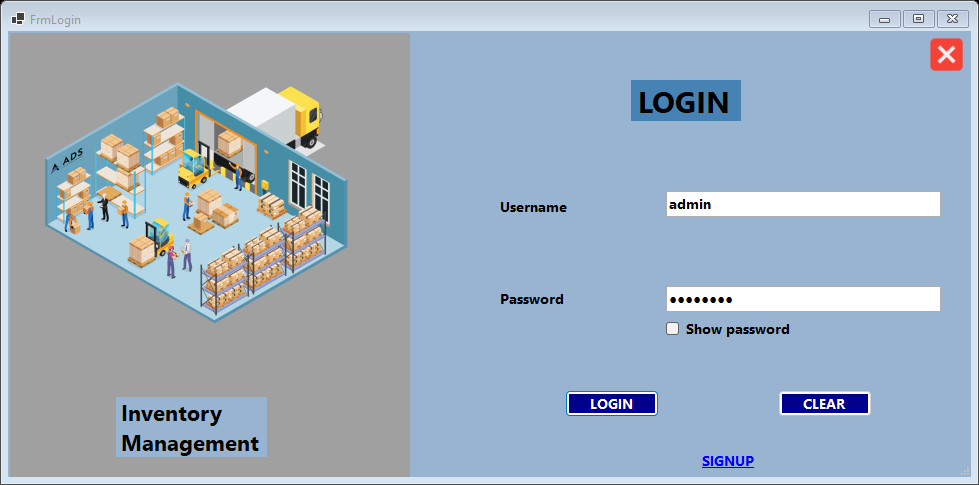
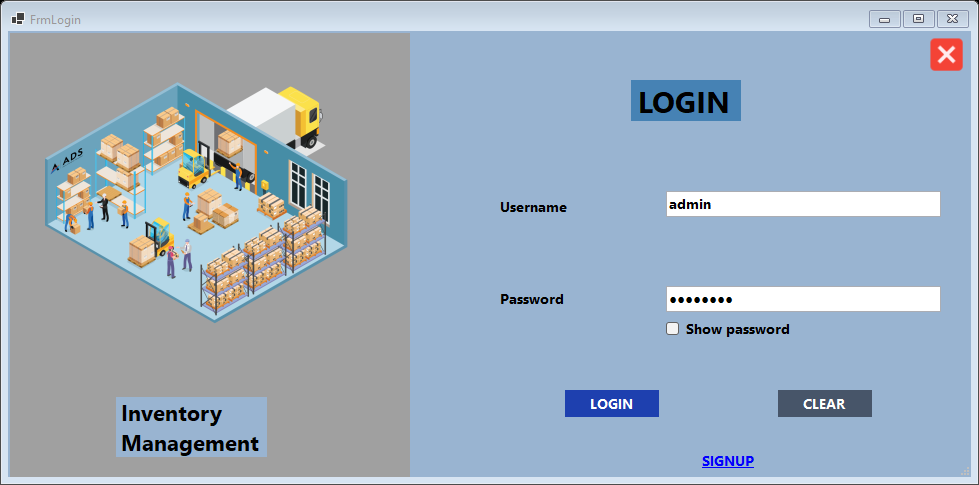
Modern flat button style across all screens
- UiTheme helper styles buttons in code (designer files untouched):
  flat blue buttons with hover effect, red DELETE, grey CLEAR, hand cursor
- Refresh report screenshots to match

Changed region(s): [[0.5516, 0.8041, 0.6742, 0.866], [0.7967, 0.8041, 0.8887, 0.866]]

diff --git a/ShopManagementSystem/Helpers/UiTheme.cs b/ShopManagementSystem/Helpers/UiTheme.cs
@@ -1,0 +1,49 @@
+using System;
+using System.Drawing;
+using System.Windows.Forms;
+
+namespace ShopManagementSystem.Helpers
+{
+    // Gives every button in a form the same modern, flat look.
+    // Applied in code so the designer files stay untouched.
+    public static class UiTheme
+    {
+        private static readonly Color Primary = Color.FromArgb(30, 64, 175);
+        private static readonly Color PrimaryHover = Color.FromArgb(37, 99, 235);
+        private static readonly Color Danger = Color.FromArgb(185, 28, 28);
+        private static readonly Color DangerHover = Color.FromArgb(220, 38, 38);
+        private static readonly Color Neutral = Color.FromArgb(71, 85, 105);
+        private static readonly Color NeutralHover = Color.FromArgb(100, 116, 139);
+
+        public static void StyleButtons(Control root)
+        {
+            foreach (Control control in root.Controls)
+            {
+                if (control is Button button)
+                    Style(button);
+                if (control.HasChildren)
+                    StyleButtons(control);
+            }
+        }
+
+        private static void Style(Button button)
+        {
+            string text = button.Text.Trim().ToUpperInvariant();
+            (Color normal, Color hover) = text switch
+            {
+                "DELETE" => (Danger, DangerHover),
+                "CLEAR" => (Neutral, NeutralHover),
+                _ => (Primary, PrimaryHover)
+            };
+
+            button.UseVisualStyleBackColor = false;
+            button.FlatStyle = FlatStyle.Flat;
+            button.FlatAppearance.BorderSize = 0;
+            button.FlatAppearance.MouseOverBackColor = hover;
+            button.FlatAppearance.MouseDownBackColor = normal;
+            button.BackColor = normal;
+            button.ForeColor = Color.White;
+            button.Cursor = Cursors.Hand;
+        }
+    }
+}

diff --git a/ShopManagementSystem/Forms/FrmSignup.cs b/ShopManagementSystem/Forms/FrmSignup.cs
@@ -19,6 +19,7 @@ namespace warehouse.ShopManagementSystem.Forms
         public FrmSignup()
         {
             InitializeComponent();
+            UiTheme.StyleButtons(this);
         }
 
         private void txtUsername_TextChanged(object sender, EventArgs e)

diff --git a/ShopManagementSystem/Forms/FrmLogin.cs b/ShopManagementSystem/Forms/FrmLogin.cs
@@ -20,6 +20,7 @@ namespace warehouse.ShopManagementSystem.Forms
         public FrmLogin()
         {
             InitializeComponent();
+            UiTheme.StyleButtons(this);
         }
 
         private void FrmLogin_Load(object sender, EventArgs e)

diff --git a/ShopManagementSystem/Forms/FrmCustomers.cs b/ShopManagementSystem/Forms/FrmCustomers.cs
@@ -21,6 +21,7 @@ namespace warehouse.NewFolder.Forms
         public FrmCustomers()
         {
             InitializeComponent();
+            UiTheme.StyleButtons(this);
         }
 
         private void FrmCustomers_Load(object sender, EventArgs e)

diff --git a/ShopManagementSystem/Forms/FrmDashboard.cs b/ShopManagementSystem/Forms/FrmDashboard.cs
@@ -20,6 +20,7 @@ namespace warehouse.NewFolder.Forms
         public FrmDashboard()
         {
             InitializeComponent();
+            UiTheme.StyleButtons(this);
         }
 
         private void FrmDashboard_Load(object sender, EventArgs e)

diff --git a/ShopManagementSystem/Forms/FrmEmployees.cs b/ShopManagementSystem/Forms/FrmEmployees.cs
@@ -21,6 +21,7 @@ namespace warehouse.NewFolder.Forms
         public FrmEmployees()
         {
             InitializeComponent();
+            UiTheme.StyleButtons(this);
         }
         private void LoadEmployees()
         {

diff --git a/ShopManagementSystem/Forms/FrmProducts.cs b/ShopManagementSystem/Forms/FrmProducts.cs
@@ -17,6 +17,7 @@ namespace warehouse.NewFolder.Forms
         public FrmProducts()
         {
             InitializeComponent();
+            UiTheme.StyleButtons(this);
         }
 
         private void LoadProducts()
